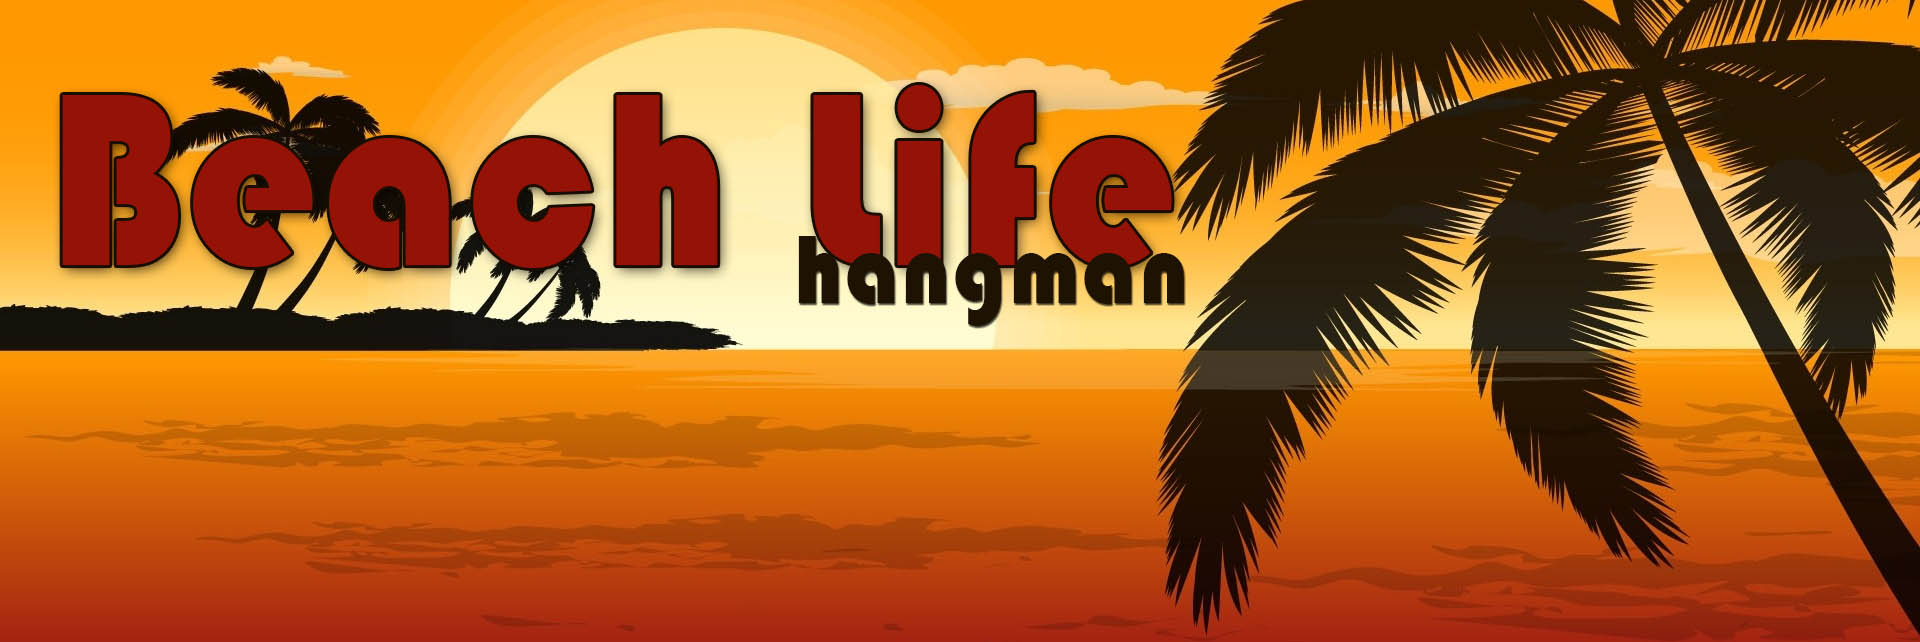
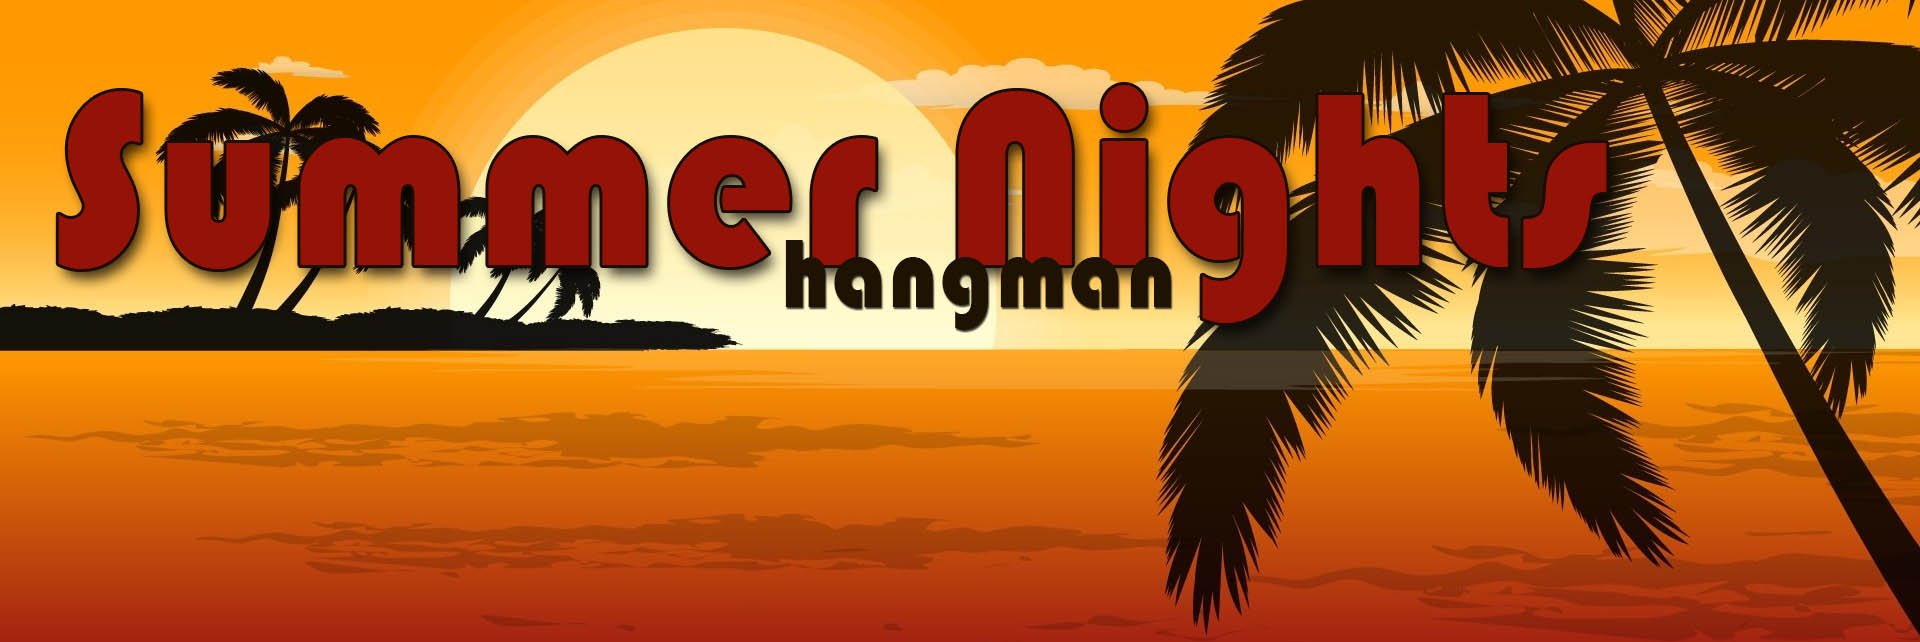
update html/css for responsiveness

Changed region(s): [[0.0312, 0.1246, 0.8438, 0.5296]]

diff --git a/index.html b/index.html
@@ -5,30 +5,36 @@
     <meta charset="UTF-8">
     <meta name="viewport" content="width=device-width, initial-scale=1.0">
     <meta http-equiv="X-UA-Compatible" content="ie=edge">
-    <title>Beach Life Hangman Game</title>
+    <title>Summer Nights Hangman Game</title>
     <link rel="stylesheet" type="text/css" href="assets/css/reset.css">
     <link rel="stylesheet" type="text/css" href="assets/css/style.css">
-
     <link href="https://fonts.googleapis.com/css?family=Black+And+White+Picture" rel="stylesheet">
+    <link href="assets/images/favicon.ico" rel="icon" type="image/x-icon">
 </head>
 
 <body>
     <header>
-        <img class="header-image" src="assets/images/headerimage.jpg" alt="Beach Header">
+        <picture>
+            <source srcset="assets/images/headerimage-small.jpg" media="(max-width: 640px)">
+            <img class="header-image" srcset="assets/images/headerimage.jpg" alt="Summer Nights Hangman Game Header">
+        </picture>
     </header>
     <main class="container">
-        <div class="column-left">
-            <h2>This is where a picture and stuff will go</h2>
-        </div>
-        <div class="column-right">
-            <p id="start">Press any key to get started!</p>
-            <p>Wins: <span id="wins">_</span></p>
-            <p id="word">_</p>
-            <p>Number of Guesses Remaining</p>
-            <p id="guesses-remaining">_</p>
-            <p>Letters Already Guessed</p>
-            <p id="letters-guessed">_</p>
-        </div>
+            <div class="aside column-left">
+                <img class="fill-image" src="assets/images/Van.jpg">
+                <h3 class="fill-text">"Got my toes in the water, ass in the sand. Not a worry in the world, a cold beer
+                    in
+                    my hand. Life is good today, life is good today" <br>- Zac Brown Band</h2>
+            </div>
+            <div class="aside column-right">
+                <h1>Press any key to get started!</h1>
+                <h2>Wins: <span id="wins">_</span></h2>
+                <h2 id="word">_</p>
+                    <h2>Number of Guesses Remaining</h2>
+                    <h2 id="guesses-remaining">_</h2>
+                    <h2>Letters Already Guessed</h2>
+                    <h2 id="letters-guessed">_</h2>
+            </div>
     </main>
 
     <script src="assets/javascript/game.js"></script>

diff --git a/assets/css/style.css b/assets/css/style.css
@@ -13,6 +13,21 @@ header {
     width: 100%;
 }
 
+h1 {
+    font-size: 32px;
+    margin-bottom: 30px;
+    text-decoration: underline;
+}
+
+h3 {
+    font-size: 22px;
+}
+
+h2 {
+    font-size: 26px; 
+    margin-bottom: 30px;
+}
+
 .header-image {
     width: 100%;
     height: auto;
@@ -22,6 +37,8 @@ header {
 .container {
     max-width: 960px;
     margin: 0 auto;
+    display: flex;
+
 }
 
 .column-left,
@@ -29,21 +46,17 @@ header {
     border: 2px solid #FFF1B2; 
     width: 50%;
     min-height: 500px;
-    float: left;
     text-align: center;
     padding: 20px;
 }
 
-p {
-    font-size: 28px; 
-    margin-bottom: 20px;
+.fill-image {
+    border: 1px solid #FFF1B2;
+    width: 100%;
+    margin-bottom: 10px;
 }
 
-#start {
-    font-size: 40px;
-}
-
-@media screen and (min-width: 960px) {
+@media screen and (min-width: 961px) {
     .container {
         position: relative;
         bottom: 256px; 
@@ -53,5 +66,17 @@ p {
     .column-right {
         background: #A62005;
     }
+}
 
+@media screen and (max-width: 640px) {
+    .container {
+        flex-direction: column-reverse;
+    }
+    
+    .column-left,
+    .column-right {
+        margin: 0 auto;
+        width: 80%;
+        min-height: auto;
+    }
 }

diff --git a/assets/javascript/game.js b/assets/javascript/game.js
@@ -1,0 +1,28 @@
+//Potential words for the Beach Life Hangman game
+var wordChoice = ["sunshine", "surfboard", "bikini"]
+var wins = 0;
+var guessesRemaining = 6;
+
+//user presses a key, random word from wordChoice array is selected and displayed on screen as blanks, number of choices is reset to 7, image in left column is reset
+var userPress = document.onKeyUp(event.key)
+var wordToGuess = wordChoice[Math.floor(Math.randon()*wordChoice.length)];
+
+
+//user picks a letter, letter is displayed on screen, 
+
+
+
+//if letter is in word, letter is revealed, if letter is not in word it is added to the letters already guessed and # of guess is reduced by one
+var guesseRemainingElement = document.getElementById("wins");
+guesseRemainingElement = guessesRemaining;
+
+
+
+//if # of guess left = 0, "You Lose, try again" and restart
+
+
+
+
+//if all letters are revealed "You win" and new image with info blurb is displayed in left column and restart
+
+
